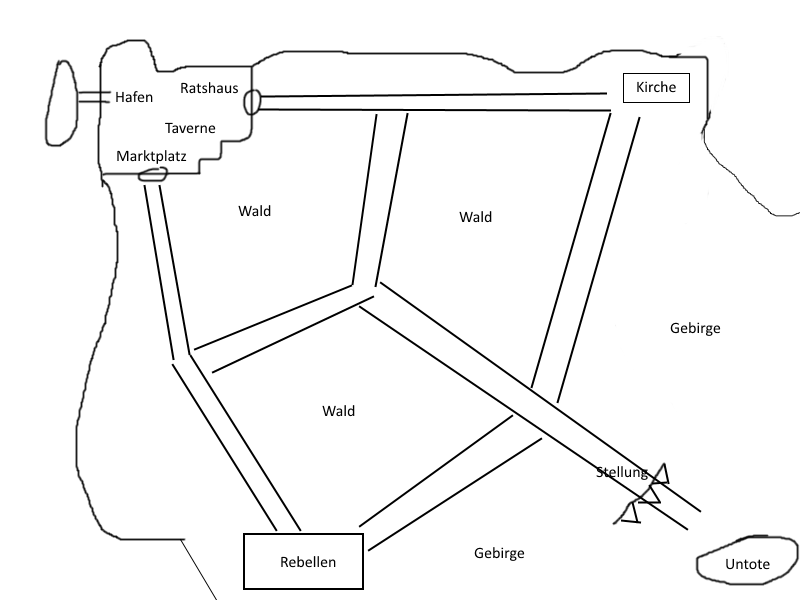
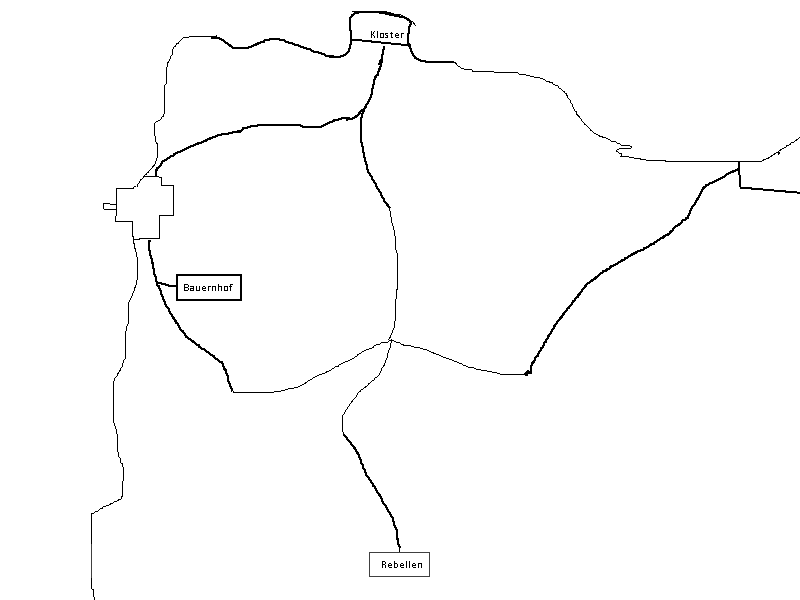
Changed map

diff --git a/resources/barracks.tsx b/resources/barracks.tsx
@@ -1,0 +1,4 @@
+<?xml version="1.0" encoding="UTF-8"?>
+<tileset name="barracks" tilewidth="32" tileheight="32" tilecount="160" columns="16">
+ <image source="barracks.png" width="512" height="320"/>
+</tileset>

diff --git a/resources/big_ship.tsx b/resources/big_ship.tsx
@@ -1,0 +1,4 @@
+<?xml version="1.0" encoding="UTF-8"?>
+<tileset name="big_ship" tilewidth="32" tileheight="32" tilecount="308" columns="11">
+ <image source="big_ship.png" width="352" height="896"/>
+</tileset>

diff --git a/resources/townhall.tsx b/resources/townhall.tsx
@@ -1,0 +1,4 @@
+<?xml version="1.0" encoding="UTF-8"?>
+<tileset name="townhall" tilewidth="32" tileheight="32" tilecount="272" columns="16">
+ <image source="townhall.png" width="512" height="544"/>
+</tileset>

diff --git a/resources/brothel.tsx b/resources/brothel.tsx
@@ -1,0 +1,4 @@
+<?xml version="1.0" encoding="UTF-8"?>
+<tileset name="brothel" tilewidth="32" tileheight="32" tilecount="165" columns="15">
+ <image source="brothel.png" width="480" height="352"/>
+</tileset>

diff --git a/resources/church.tsx b/resources/church.tsx
@@ -1,0 +1,4 @@
+<?xml version="1.0" encoding="UTF-8"?>
+<tileset name="church" tilewidth="32" tileheight="32" tilecount="342" columns="18">
+ <image source="church.png" width="576" height="608"/>
+</tileset>

diff --git a/resources/arena.tsx b/resources/arena.tsx
@@ -1,0 +1,4 @@
+<?xml version="1.0" encoding="UTF-8"?>
+<tileset name="arena" tilewidth="32" tileheight="32" tilecount="418" columns="22">
+ <image source="arena.png" width="704" height="608"/>
+</tileset>

diff --git a/src/manager/MobManager.java b/src/manager/MobManager.java
@@ -38,7 +38,7 @@ public class MobManager {
 	
 	public MobManager() throws SlickException {
 		
-		player = new Player(45, 30, true);
+		player = new Player(67, 170, true);
 		
 		Item stick = new Item(0, 0, itemTypeManager.stick);
 
@@ -82,7 +82,7 @@ public class MobManager {
 		mobList.add(player);
 		
 		
-		
+		/*
 		mobList.add(ogus);
 		mobList.add(halrok);
 		
@@ -100,7 +100,7 @@ public class MobManager {
 		
 		aggressiveWolf3 = new Monster(60, 60, "resources/mob_sprites/monster/WolfSpriteSheet.png", 500, null, 100, 5, true, true);		
 		mobList.add(aggressiveWolf3);
-		
+		*/
 		
 		
 	}

diff --git a/src/models/Map.java b/src/models/Map.java
@@ -1,5 +1,6 @@
 package models;
 
+import org.newdawn.slick.Color;
 import org.newdawn.slick.Graphics;
 import org.newdawn.slick.SlickException;
 import org.newdawn.slick.tiled.TiledMap;
@@ -32,6 +33,8 @@ public class Map {
 	
 	public void render(Graphics g) {
 				
+		g.setBackground(new Color(21, 120, 153));
+		
 		if(tileOffsetX <= 0) {
 			offsetX = offsetX + 32;
 			tileOffsetX = 32;

diff --git a/src/main/Game.java b/src/main/Game.java
@@ -54,7 +54,7 @@ public class Game extends BasicGameState {
 	@Override
 	public void init(GameContainer gameContainer, StateBasedGame stateBasedGame) throws SlickException {
 
-		world = new Map("resources/World.tmx");
+		world = new Map("resources/World2.tmx");
 		currentMap = world;
 
 		notWalkableLayerIndex = Game.getCurrentMap().getTiledMap().getLayerIndex("NotWalkable");
